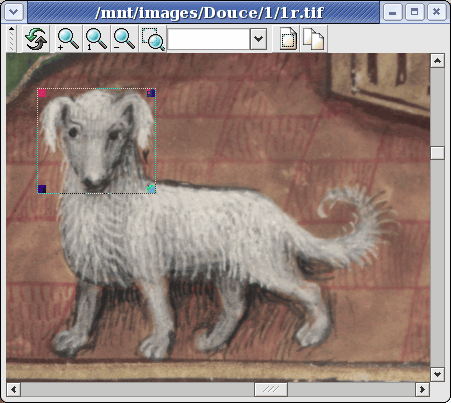
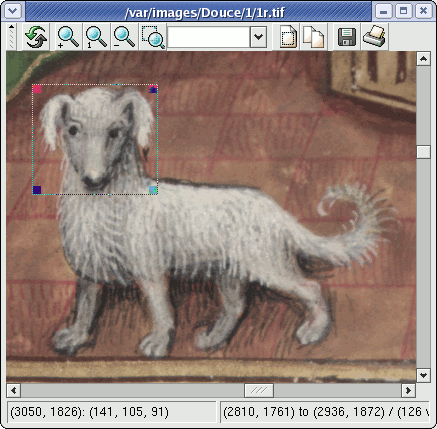
Added saving and printing support to image viewer.
git-svn-id: https://gamera.svn.sourceforge.net/svnroot/gamera/trunk/gamera@699 11adfac4-6937-0410-99e7-a562d755d3b8

diff --git a/gamera/core.py b/gamera/core.py
@@ -90,6 +90,19 @@ supported.
    image.name = filename
    return image
 
+def save_image(image, filename):
+   """**save_image** (Image(ALL) *image*, String *filename*)
+
+Saves an image to a file.  The file type is automatically
+determined from the extension.
+"""
+   if filename.lower().endswith("png"):
+      from gamera.plugins import _png_support
+      _png_support.save_PNG(image, filename)
+   else:
+      from gamera.plugins import _tiff_support
+      _tiff_support.save_tiff(image, filename)
+
 def nested_list_to_image(l, t=-1):
    from gamera.plugins import image_utilities
    return image_utilities.nested_list_to_image(l, t)
@@ -250,9 +263,7 @@ See `storage formats`_ for more information."""
    _methods_flatten = classmethod(_methods_flatten)
 
    def load_image(filename, compression=DENSE):
-      """**load_image** (FileOpen *filename*, Choice *storage_format* = ``DENSE``)
-
-Load an image from the given filename.  At present, TIFF and PNG files are
+      """Load an image from the given filename.  At present, TIFF and PNG files are
 supported.
 
 *storage_format*
@@ -261,6 +272,11 @@ supported.
 .. __: image_types.html#storage-formats"""
       return load_image(filename, compression)
    load_image = staticmethod(load_image)
+
+   def save_image(self, filename):
+      """Saves an image to a file.  The file type is automatically
+determined from the extension."""
+      return save_image(self, filename)
 
    def memory_size(self):
       """Int **memory_size** ()
@@ -612,6 +628,9 @@ def _init_gamera():
          "load_image", "File", plugin.ImageType(ALL, "image"),
          plugin.ImageType(ALL), plugin.Args([plugin.FileOpen("filename")])),
       plugin.PluginFactory(
+         "save_image", "File", None,
+         plugin.ImageType(ALL), plugin.Args([plugin.FileOpen("filename")])),
+      plugin.PluginFactory(
          "display", "Displaying", None, plugin.ImageType(ALL), None),
       plugin.PluginFactory(
          "display_ccs", "Displaying", None, plugin.ImageType([ONEBIT]),
@@ -685,4 +704,5 @@ __all__ = ("init_gamera UNCLASSIFIED AUTOMATIC HEURISTIC MANUAL "
            "ONEBIT GREYSCALE GREY16 RGB FLOAT COMPLEX ALL DENSE RLE "
            "ImageData Size Dimensions Point Rect Region RegionMap "
            "ImageInfo Image SubImage Cc load_image image_info "
-           "display_multi ImageBase nested_list_to_image RGBPixel").split()
+           "display_multi ImageBase nested_list_to_image RGBPixel "
+           "save_image").split()

diff --git a/gamera/gui/gui.py b/gamera/gui/gui.py
@@ -257,6 +257,7 @@ class ShellFrame(wxFrame):
       image_menu.set_shell(self.shell)
       image_menu.set_shell_frame(self)
       self.shell.push("from gamera.gui import gui")
+      self.shell.push("from gamera.gui.matplotlib_support import *")
       self.shell.push("from gamera.core import *")
       self.shell.push("init_gamera()")
 
